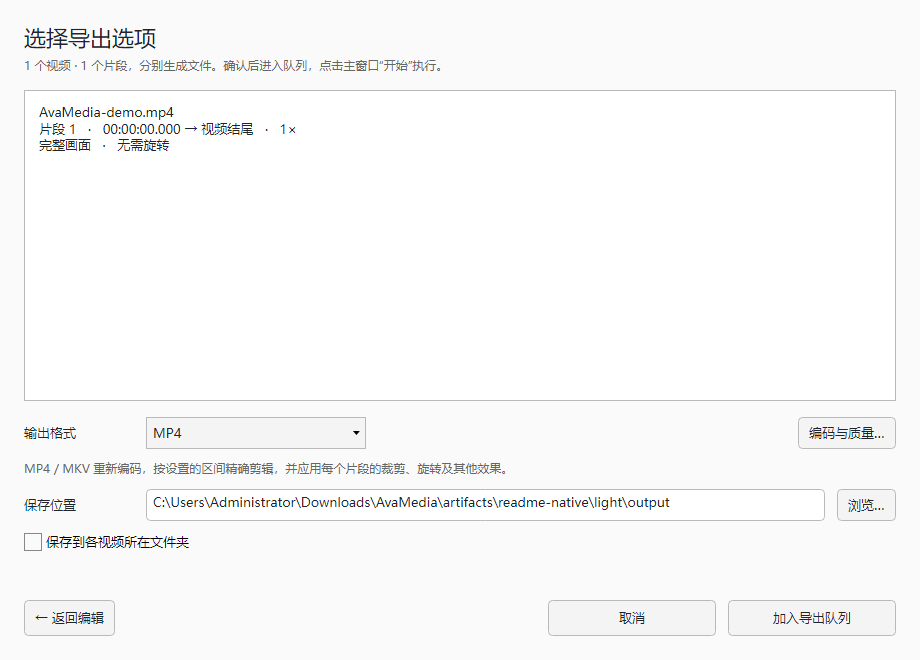
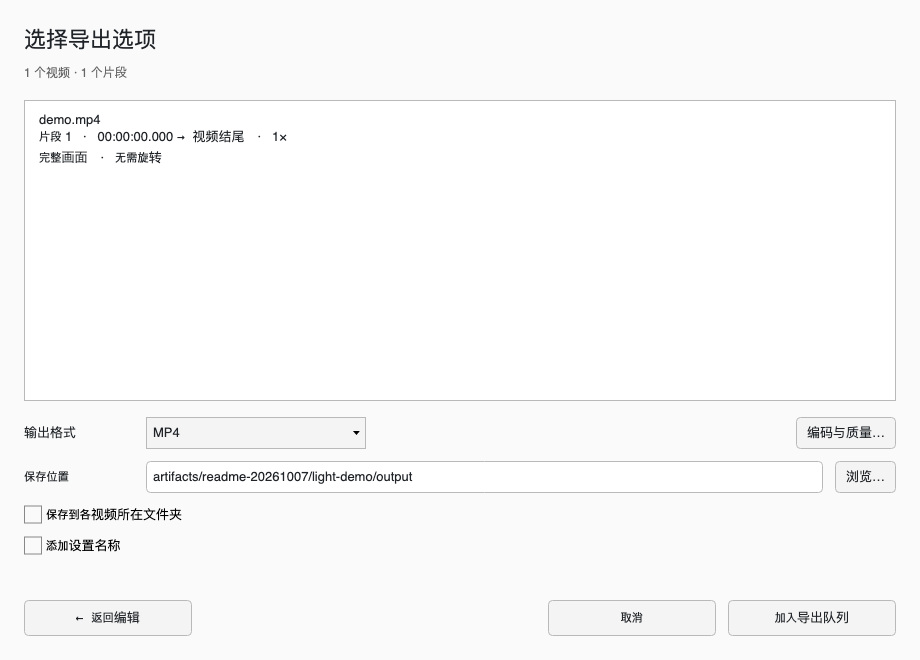
docs: refresh bilingual README and current screenshots

diff --git a/README.md b/README.md
@@ -1,131 +1,114 @@
 # 天池万象转换 · AvaMedia
 
+**简体中文** · [English](README.en.md)
+
 [![CI](https://github.com/mcxen/AvaMedia/actions/workflows/ci.yml/badge.svg)](https://github.com/mcxen/AvaMedia/actions/workflows/ci.yml)
 [![Release](https://github.com/mcxen/AvaMedia/actions/workflows/release.yml/badge.svg)](https://github.com/mcxen/AvaMedia/actions/workflows/release.yml)
 [![License: AGPL-3.0-only](https://img.shields.io/badge/license-AGPL--3.0--only-blue)](LICENSE)
 
-**天池万象转换（AvaMedia）** 使用 **Avalonia 11.3.22、C# 和 .NET 8** 开发，是支持 Windows 与 macOS 的开源桌面多媒体客户端。经典布局和编辑流程参考 FormatFactory X64 5.10.0；代码、控件和图标独立实现，采用 AGPL-3.0-only。
+面向 **Windows 和 macOS** 的开源桌面媒体工具。转换、压缩、剪辑、播放、下载，以及图片和 PDF 处理，集中在一个可批量执行的任务队列中。
+
+使用 **C#、.NET 8 和 Avalonia 11** 开发，提供简体中文 / English 界面与 Light、Dark、Mac OS 9 · Platinum 三套皮肤。当前仍为开发版，功能范围和已验证结果见 [功能说明](docs/FEATURES.md)。
+
+[下载](https://github.com/mcxen/AvaMedia/releases/latest) · [界面截图](#界面截图) · [从源码运行](#从源码运行) · [报告问题](https://github.com/mcxen/AvaMedia/issues)
 
 ## 下载与安装
 
-从 [GitHub Releases](https://github.com/mcxen/AvaMedia/releases/latest) 下载对应平台的成品。客户端包含 .NET 运行时，无需单独安装 SDK。
+从 [GitHub Releases](https://github.com/mcxen/AvaMedia/releases/latest) 下载对应平台的安装包。
 
-| 平台 | 下载 |
+| 平台 | 文件 | 安装方式 |
+| --- | --- | --- |
+| Windows x64 | `AvaMedia-<版本>-win-x64-setup.exe` | 运行安装器，包含快捷方式与卸载入口 |
+| Windows x64 便携版 | `AvaMedia-<版本>-win-x64-portable.zip` | 解压后运行 `AvaMedia.Desktop.exe` |
+| macOS Apple Silicon | `AvaMedia-<版本>-osx-arm64.dmg` | 打开后将 `天池万象转换.app` 拖入 Applications |
+
+macOS 安装包面向 **Apple Silicon（ARM64），声明最低 macOS 13.4**；该最低版本的完整设备验收状态见 [平台说明](docs/PLATFORMS.md)。应用采用 ad-hoc 签名，尚未进行 Developer ID 签名和公证，首次启动可能需要在系统“隐私与安全性”中允许打开。
+
+安装包内置 **.NET 运行时、FFmpeg / FFprobe、yt-dlp 和 QuickJS-NG**，无需另装 SDK、Python 或媒体引擎。各版本 SHA256 与对应媒体工具源码归档链接位于 Release 说明中。
+
+当前开发构建首次正常启动时会在后台下载并校验 LaMa 模型，其他功能可继续使用；缓存有效时不重复下载。LaMa 修复推理和编辑入口尚未接入，见 [模型安装](docs/MODEL-INSTALLATION.md)。
+
+## 主要功能
+
+| 功能 | 支持内容 |
 | --- | --- |
-| Windows x64 | `AvaMedia-版本-win-x64-portable.zip`，解压运行；`AvaMedia-版本-win-x64-setup.exe`，安装、快捷方式与卸载 |
-| macOS Apple Silicon | `AvaMedia-版本-osx-arm64.dmg`，打开后把应用拖入 Applications |
+| 视频转换与压缩 | MP4、MKV、WebM、AVI、MOV、TS 等；画质、码率或目标体积；Apple、NVIDIA、Intel、AMD 硬件转码与软件回退；iPhone HDR 转 SDR |
+| 剪辑与批量处理 | 多文件、多片段、按段数 / 时长 / 时间点分割；裁剪、旋转、镜像、速度、淡入淡出；批量裁剪、方向建议、重命名与多宫格截图 |
+| 音轨与字幕 | 合并、混流、音视频流提取；选轨、多音轨保留、采样率、声道、音量与音频效果；字幕烧录或独立字幕轨 |
+| 图片转换与压缩 | HEIC / HEIF 输入；JPEG、WebP、PNG 压缩；实际编码后的体积与前后对比；只保存变小的压缩结果并保留原图；另有图片格式转换、缩放与旋转 |
+| PDF 工作区 | 页面预览、选页、排序、旋转、拆分与合并；图片 / TXT 排版为 PDF；PDF 做旧、压缩及文本提取 |
+| 视频下载 | 分享文本、批量链接、播放列表 / 分 P / 相册；画质、视频 / 音频、字幕、登录态、代理与失败重试 |
+| 天池播放器 | 独立播放窗口、目录播放列表、全屏、倍速、选轨、逐帧定位、当前帧截图与常用 PotPlayer 式快捷键 |
+| WiFi 传文件 | 同一局域网内，手机扫码通过浏览器上传文件，电脑也可分享文件给手机下载 |
+| 任务队列与工具 | 并行处理、进度、停止、编辑参数、重试、日志、自动保存与导入导出；ZIP 压缩 / 解压、导出帧、DVD / VOB 转换和原始数据复制为 ISO |
 
-后续 macOS 发布仅提供 Apple Silicon（ARM64）版本。
+拖入文件可按视频、音频、图片和文档推荐工具；也可先选择功能，再添加文件、调整参数、加入队列并开始处理。快速剪辑先编辑片段，再统一配置导出，每个片段生成独立文件。
 
-客户端、Windows 快捷方式和 macOS 应用使用中文名“天池万象转换”；macOS 应用文件名为 `天池万象转换.app`。GitHub 仓库、可执行文件和发布压缩包继续使用 AvaMedia。品牌配置统一维护在 [`Branding.props`](Branding.props)。
+### 使用边界
 
-主 Release 只上传以上三种成品，SHA256 校验值在版本说明中。应用源码可通过版本 tag 或 GitHub 自动生成的 Source code 下载；FFmpeg 精确对应源码和独立工具包在版本说明链接的 `media-v版本` 媒体归档页，不占用应用下载列表。macOS 包采用 ad-hoc 签名，尚未经过 Developer ID 签名和公证；初次启动可能需要在系统隐私与安全性中允许打开。
+- **Fast Copy** 的剪辑起点受关键帧限制；裁剪、画面旋转等滤镜需要重新编码。
+- **HEIC / HEIF** 压缩只处理静态主图，输出 JPEG / WebP / PNG，不保留 Live Photo 视频、深度图或 HDR 增益图。
+- **PDF → DOCX / XLSX** 提取文本，不重建原始排版；PDF 做旧和整页压缩会栅格化页面。
+- **去除水印** 当前对选区进行模糊处理，不能恢复被遮挡的内容；重新封装也不保证修复损坏媒体。
+- 下载可用性取决于站点、账号、地区和网络限制，详见 [视频下载](docs/VIDEO-DOWNLOAD.md)。
 
-新安装包与便携版内置 FFmpeg / FFprobe 8.1.3、yt-dlp 和 QuickJS-NG。安装或解压后即可使用视频播放、转换、压缩与下载，无需另装媒体引擎、Python 或开发 SDK。
+## 界面截图
 
-Windows 的两个媒体程序共用 DLL；macOS 的运行库位于应用内部。两平台从固定源码构建所需引擎，保留 x264 / x265、字幕、HDR 转 SDR 和平台硬件接口；不附带 ffplay、头文件或静态开发库。源码归档和校验清单保存在对应媒体归档页，普通用户只需下载安装包。
+以下为本地已编译客户端在 macOS 上截取的实际界面（2026-10-07），使用中文界面；应用也支持 English。编辑器示例画面来自 [NASA 公共领域照片](tests/AvaMedia.BatchRotateTests/Fixtures/README.md)。
 
-默认路径留空即可使用内置工具，也可在“选项 → 工具”选择自定义引擎，或设置 `AVAMEDIA_FFMPEG`、`AVAMEDIA_FFPROBE`、`AVAMEDIA_YT-DLP`。打包方式见 [自动发布](docs/RELEASE.md) 与 [macOS FFmpeg](docs/FFMPEG-MACOS.md)。
+**主窗口 · Light**
 
-## 界面
+![AvaMedia 浅色主窗口：媒体工具分类、任务队列与 WiFi 传文件入口](docs/assets/screenshots/main-light.png)
 
-以下截图来自实际客户端，示例媒体为测试生成的画面。
+| Mac OS 9 · Platinum | 快速剪辑 · Dark |
+| --- | --- |
+| [![AvaMedia Mac OS 9 主窗口](docs/assets/screenshots/main-macos9.png)](docs/assets/screenshots/main-macos9.png) | [![AvaMedia 深色快速剪辑编辑器：时间区间、边界预览与片段编辑](docs/assets/screenshots/editor-dark.png)](docs/assets/screenshots/editor-dark.png) |
+| **导出设置 · Light** | **视频下载 · Light** |
+| [![AvaMedia 导出设置：片段列表、输出格式和保存位置](docs/assets/screenshots/export-light.png)](docs/assets/screenshots/export-light.png) | [![AvaMedia 视频下载：链接解析、画质、字幕和登录选项](docs/assets/screenshots/download-light.png)](docs/assets/screenshots/download-light.png) |
 
-**经典主窗口 · Light**
-
-![AvaMedia 浅色主窗口](docs/assets/screenshots/main-light.png)
-
-**Mac OS 9 · Platinum**
-
-![AvaMedia Mac OS 9 主窗口](docs/assets/screenshots/main-macos9.png)
-
-**媒体编辑器 · Dark**
-
-![AvaMedia 深色媒体编辑器](docs/assets/screenshots/editor-dark.png)
-
-**编辑完成后的导出设置**
-
-![AvaMedia 导出选项](docs/assets/screenshots/export-light.png)
-
-三套皮肤共用组件角色和布局指标。时间统一显示三位小数，底层保留精确帧时间；播放、微调、确认与取消控件保持一致尺寸和对齐。规范见 [UISPEC.MD](UISPEC.MD)，皮肤说明见 [Mac OS 9 设计](docs/MACOS9-SKIN.md)。
-
-## 功能
-
-- **中英文界面**：“语言 / Language”菜单提供简体中文、English 和跟随系统，实时切换并保存偏好；浅色、深色和 Mac OS 9 皮肤共用语言资源。
-- **媒体转换**：音视频、图片及其他容器；尺寸、编码、质量、帧率、采样率、声道和预设可配置。
-- **旧视频格式**：3GP / 3G2、RM / RMVB、AVI / DivX、WMV / ASF、FLV / F4V、旧 QuickTime、VCD / DVD、DV、AMV、NSV 等可导入播放器、剪辑与压缩；转换窗口提供 3GP / 3G2 输出，默认 MPEG-4 + AAC。见 [旧视频支持](docs/LEGACY-VIDEO.md)。
-- **拖入即选工具**：视频、图片、音频与文档自动分类，左侧真实缩略图，右侧工具卡片与流动连线；混合批次注明接收 / 跳过数量，点击直接带入编辑。见 [文件路由](docs/MEDIA-ROUTING.md)。
-- **WiFi 传文件**：顶部开启局域网收发，手机扫码通过网页上传照片、MOV 视频及文件，接收后导入转换或高画质压缩；电脑也可分享文件给手机下载。见 [WiFi 传文件](docs/WIFI-TRANSFER.md)。
-- **视频压缩**：自动画质档、手动质量 / 码率与目标体积；支持苹果 MOV / M4V / MP4、HEVC 和 ProRes 输入，iPhone HLG / Dolby Vision 转 SDR，输出 MP4 / MOV / M4V / MKV。见 [视频压缩](docs/VIDEO-COMPRESSION.md)。
-- **快速剪辑**：选择视频直接编辑，多文件、多片段、按段数 / 时长 / 时间点分割，最后统一配置导出，每个片段分别输出。
-- **预览与编辑**：实际帧定位、区间播放、结束边界帧、选区移动 / 缩放、比例锁定、键盘微调、旋转、镜像、速度和淡入淡出。
-- **批量裁剪与旋转**：共享像素或比例选区，逐文件调整，本地人脸方向识别，对照原画面和处理后预览。
-- **图片压缩**：支持苹果 HEIC / HEIF 输入，导出 JPEG / WebP / PNG；批量勾选、质量方案与尺寸上限，滑动 / 并排对比、1:1 像素查看，显示真实体积，仅保存实际变小的结果并保留原图。macOS 使用 ImageIO 生成方向正确的缩略图，调整压缩参数复用原图预览。见 [图片压缩](docs/IMAGE-COMPRESSION.md) 与 [HEIC 支持](docs/HEIC.md)。
-- **合并、混流与字幕**：逐输入保留编辑参数，支持视频 / 音轨选择、字幕烧录与独立字幕轨配置。
-- **视频下载**：分享文本与批量链接解析、YouTube 播放列表 / B站分P、Bunkr 视频 / 相册、Pixeldrain 视频 / 文件列表、多画质、视频 / 音频、字幕、登录态与代理；内置 yt-dlp、站点解析器和 QuickJS-NG，停止后可重试续传。平台要求与验证见 [视频下载](docs/VIDEO-DOWNLOAD.md)。
-- **任务与工具**：并行队列、停止、重试、日志、拖放、恢复和导入导出；可视化 PDF 页面排序 / 拆分 / 合并 / 排版、PDF 做旧与压缩、归档、导出帧与下载入口。
-- **天池播放器**：独立窗口、PotPlayer 常用键位、后台目录播放列表；Windows 新安装器提供独立开始菜单入口并注册视频 / 音频“打开方式”，便携版可在选项的系统页注册。见 [播放器](docs/PLAYER.md)。
-- **高级设置**：[自动 GPU 转码](docs/GPU-TRANSCODING.md)，适配 Apple M 系列、NVIDIA RTX、Intel 核显 / Arc、AMD，自动匹配编码与解码路径并分级回退；另提供线程、图片质量、减少动效和外部工具配置。
-
-使用流程：选择功能 → 添加媒体 → 配置或编辑 → 加入队列 → 开始。快速剪辑返回编辑保留草稿，取消不加入任务；Fast Copy 受关键帧限制，包含滤镜时需重新编码。水印区域采用模糊处理，PDF → Office 提取文本。详见 [功能与验证](docs/FEATURES.md)。
-
-专项说明：[快速剪辑](docs/QUICK-CLIP.md) · [视频编辑](docs/VIDEO-EDITING.md) · [批量裁剪](docs/BATCH-CROP.md) · [批量旋转](docs/BATCH-ROTATE.md) · [字幕与选轨](docs/SUBTITLE-OPTIONS.md) · [高级设置](docs/SETTINGS.md)。
-
-播放器大文件测量包括真实 5.23 GB 4K 视频、1080p60 与两小时 PCM 音频，并记录启动、CPU、分配、定位及 UI 调度；测试方法与本机前后数据见 [性能记录](docs/PLAYER-PERFORMANCE.md)。
-
-## 接口与架构
-
-`AvaMedia.Core` 不依赖 Avalonia，负责模型、校验、任务计划和媒体处理；`AvaMedia.Desktop` 负责窗口、主题、预览呈现与平台音频。
-
-图片压缩通过 `IImageCompressor` 提供探测和真实编码，窗口预览与队列输出共用 `FfmpegImageCompressor`。
-
-业务窗口依赖 `IMediaEngine`，队列仅依赖 `IJobExecutor`。预览、方向识别和音频输出分别使用 `IMediaPreview`、`IVideoOrientationDetector` 和 `IAudioOutput`。接口已接入生产调用方并支持测试替换；具体依赖和实现边界见 [ARCHITECTURE](docs/ARCHITECTURE.md)。
+点击配图可查看原图。截图来源与更新方式见 [截图说明](docs/assets/screenshots/README.md)。
 
 ## 从源码运行
+
+需要 [.NET 8 SDK](https://dotnet.microsoft.com/download/dotnet/8.0)，版本选择见 [`global.json`](global.json)。
 
 ```sh
 git clone https://github.com/mcxen/AvaMedia.git
 cd AvaMedia
-dotnet restore AvaMedia.sln
-dotnet build AvaMedia.sln -c Release
-dotnet run --project src/AvaMedia.Desktop -c Release
+dotnet build src/AvaMedia.Desktop/AvaMedia.Desktop.csproj -c Release
+dotnet run --project src/AvaMedia.Desktop -c Release --no-build
 ```
 
-需要 .NET 8 SDK 和外部媒体工具。Windows 可双击 `Start-AvaMedia.cmd`，使用工程内 SDK 或已有 SDK。
+源码运行需准备 FFmpeg / FFprobe；下载功能另需 yt-dlp 和 QuickJS-NG。可使用 Release 说明链接的媒体工具包。未内置工具的开发构建可在“选项 → 外部工具”配置路径，或使用 `AVAMEDIA_FFMPEG`、`AVAMEDIA_FFPROBE`、`AVAMEDIA_YT-DLP` 环境变量；工具查找也支持项目 `.tools`、PATH 和 macOS Homebrew 路径。正式安装包优先使用内置引擎。
 
-```powershell
-pwsh -File scripts/Verify.ps1
-pwsh -File scripts/Publish.ps1 -Runtime win-x64 -Version 1.0.5
-pwsh -File scripts/Package-Windows.ps1 -Version 1.0.5
-```
+日常源码修改只构建受影响项目并完成必要静态检查；仅修改文档或资源时不运行构建和测试。功能回归按明确要求执行，范围遵循 [`AGENTS.md`](AGENTS.md)。
 
-验证覆盖真实输出、剪辑、字幕、批量处理、方向识别、交互、三套皮肤、设置、接口替换与消融。测试自行生成媒体，不需要用户视频。录制权限和音频设备按实际系统配置工作；macOS 用户设备媒体能力需结合设备验收。
+### 代码结构
 
-开发者可用 `AvaMedia.Desktop --capture <目录> --editor <视频> --verify-ui` 捕获实际界面并验证解码，`--quick-clip <视频>` 捕获编辑器和导出页，`--dark` / `--macos9` 切换皮肤。图标资产和提示词保存在 `Assets`，同系列维护见 [$avamedia-icons](.agents/skills/avamedia-icons/SKILL.md)。
+| 路径 | 职责 |
+| --- | --- |
+| [`src/AvaMedia.Core`](src/AvaMedia.Core) | 媒体模型、参数校验、任务计划、队列与媒体处理，不依赖 Avalonia |
+| [`src/AvaMedia.Desktop`](src/AvaMedia.Desktop) | 桌面窗口、语言、皮肤、预览、播放与平台集成 |
+| [`scripts`](scripts) / [`.github/workflows`](.github/workflows) | 媒体引擎准备、构建、打包与发布 |
+| [`tests`](tests) | 专项验证程序与测试素材 |
 
-“皮肤 → Mac OS 9 · Platinum” 使用独立生成的 20 款透明功能图标，覆盖全部 54 个功能入口，并在已打开窗口和新子窗口中随皮肤切换。素材、完整提示词和哈希保存在 [`Assets/FeatureIcons/macos9`](src/AvaMedia.Desktop/Assets/FeatureIcons/macos9/README.md)；浅色、深色皮肤继续使用 v2 系列。[$avamedia-icons](.agents/skills/avamedia-icons/SKILL.md) 支持维护这两套风格。
+接口边界见 [架构说明](docs/ARCHITECTURE.md)，品牌配置见 [`Branding.props`](Branding.props)，界面规范见 [`UISPEC.MD`](UISPEC.MD)。
 
-## 自动发布
+## 文档与贡献
 
-推送 `vMAJOR.MINOR.PATCH` tag 后，[Release 工作流](.github/workflows/release.yml) 自动验证、构建安装包、生成源码与校验清单并上传 GitHub Release。Windows 验证安装、原生启动和卸载；Mac ARM64 包在 Apple Silicon runner 构建并验证启动。
+| 主题 | 文档 |
+| --- | --- |
+| 转换与压缩 | [视频压缩](docs/VIDEO-COMPRESSION.md) · [图片压缩](docs/IMAGE-COMPRESSION.md) · [HEIC](docs/HEIC.md) · [TS 视频](docs/TS-VIDEO.md) · [GPU 转码](docs/GPU-TRANSCODING.md) |
+| 编辑与播放 | [快速剪辑](docs/QUICK-CLIP.md) · [视频编辑](docs/VIDEO-EDITING.md) · [批量裁剪](docs/BATCH-CROP.md) · [批量旋转](docs/BATCH-ROTATE.md) · [字幕与选轨](docs/SUBTITLE-OPTIONS.md) · [播放器](docs/PLAYER.md) |
+| 文件与工具 | [文件路由](docs/MEDIA-ROUTING.md) · [WiFi 传文件](docs/WIFI-TRANSFER.md) · [PDF 工作区](docs/PDF-WORKSPACE.md) · [视频下载](docs/VIDEO-DOWNLOAD.md) · [批量工具](docs/BATCH-TOOLS.md) |
+| 开发与发布 | [架构](docs/ARCHITECTURE.md) · [设置](docs/SETTINGS.md) · [皮肤](docs/MACOS9-SKIN.md) · [平台](docs/PLATFORMS.md) · [Git 工作流](docs/GIT-WORKFLOW.md) · [自动发布](docs/RELEASE.md) |
 
-```sh
-git tag -a v1.0.5 -m "AvaMedia 1.0.5"
-git push origin v1.0.5
-```
+欢迎通过 [Issues](https://github.com/mcxen/AvaMedia/issues) 报告问题或提出建议。媒体相关问题请附系统版本、应用版本、输入格式、操作步骤和错误日志。
 
-流程见 [RELEASE](docs/RELEASE.md)，Git 管理见 [GIT-WORKFLOW](docs/GIT-WORKFLOW.md)，18 组媒体消融见 [ABLATION](docs/ABLATION.md)。
+发布由 `vMAJOR.MINOR.PATCH` tag 触发。日常提交照常推送；相对上次已发布 tag 的有效代码变更累计达到 **1200 行**且相关本地检查通过后，才创建新版本 tag。文档、许可证、资源和生成文件不计入，已发布 tag 保持不变。具体流程见 [Git 工作流](docs/GIT-WORKFLOW.md)。
 
 ## 许可证
 
-版权所有 © 2026 AvaMedia contributors。原创代码、测试、文档和原创图标采用 **AGPL-3.0-only**；见 [LICENSE](LICENSE) 与 [COPYRIGHT](COPYRIGHT)。依赖、方向模型和安装器声明见 [THIRD-PARTY-NOTICES](THIRD-PARTY-NOTICES.md)、`licenses/` 及资产说明。
+版权所有 © 2026 AvaMedia contributors。原创代码、测试、文档和原创图标采用 **AGPL-3.0-only**，见 [LICENSE](LICENSE) 与 [COPYRIGHT](COPYRIGHT)。第三方依赖、模型及安装器声明见 [THIRD-PARTY-NOTICES](THIRD-PARTY-NOTICES.md) 和 [`licenses`](licenses)。
 
-未导入 FormatFactory 的专有 DLL、图标或品牌素材。内置 FFmpeg 通过独立进程调用，包含 x264 / x265，采用 GPL-3.0-or-later；对应源码和构建配方随 Release 提供，各组件许可证随安装包保留。AvaMedia 原创代码仍采用 AGPL-3.0-only。技术与协议调研见 [RESEARCH](docs/RESEARCH.md)。
-
-## 视频播放器
-
-独立播放器采用 PotPlayer 布局和常用快捷键，支持连续播放、全屏、倍速、音量、选轨与逐帧定位。视频与声音流式解码，暂停复用会话；Windows 发布使用 ReadyToRun。操作与冷启动测量见 [播放器说明](docs/PLAYER.md)。
-
-![播放器 Dark](docs/assets/player-dark.png)
-
-![播放器 Mac OS 9](docs/assets/player-macos9.png)
+经典转换布局与编辑流程参考 FormatFactory，播放器操作参考 PotPlayer；代码、控件和图标独立实现，未导入其专有 DLL、图标或品牌素材。内置 FFmpeg 通过独立进程调用，包含 x264 / x265，采用 GPL-3.0-or-later；精确对应的源码和构建配方通过 Release 说明链接的媒体归档提供。

diff --git a/README.en.md b/README.en.md
@@ -1,0 +1,116 @@
+# AvaMedia
+
+[简体中文](README.md) · **English**
+
+[![CI](https://github.com/mcxen/AvaMedia/actions/workflows/ci.yml/badge.svg)](https://github.com/mcxen/AvaMedia/actions/workflows/ci.yml)
+[![Release](https://github.com/mcxen/AvaMedia/actions/workflows/release.yml/badge.svg)](https://github.com/mcxen/AvaMedia/actions/workflows/release.yml)
+[![License: AGPL-3.0-only](https://img.shields.io/badge/license-AGPL--3.0--only-blue)](LICENSE)
+
+An open-source desktop media toolkit for **Windows and macOS**. Convert, compress, edit, play and download media, work with images and PDFs, and manage batch operations in one task queue.
+
+Built with **C#, .NET 8 and Avalonia 11**, with Simplified Chinese / English interfaces and Light, Dark and Mac OS 9 · Platinum skins. AvaMedia is under active development; see the [feature notes](docs/FEATURES.md) for implementation and verification status.
+
+[Download](https://github.com/mcxen/AvaMedia/releases/latest) · [Screenshots](#screenshots) · [Run from source](#run-from-source) · [Report an issue](https://github.com/mcxen/AvaMedia/issues)
+
+## Download and installation
+
+Download the package for your platform from [GitHub Releases](https://github.com/mcxen/AvaMedia/releases/latest).
+
+| Platform | File | Installation |
+| --- | --- | --- |
+| Windows x64 | `AvaMedia-<version>-win-x64-setup.exe` | Run the installer; includes shortcuts and an uninstaller |
+| Windows x64 portable | `AvaMedia-<version>-win-x64-portable.zip` | Extract and run `AvaMedia.Desktop.exe` |
+| macOS Apple Silicon | `AvaMedia-<version>-osx-arm64.dmg` | Open the DMG and drag `天池万象转换.app` into Applications |
+
+The macOS package targets **Apple Silicon (ARM64) and declares macOS 13.4 as its minimum version**. See the [platform notes](docs/PLATFORMS.md) for device verification status at that minimum version. The app uses ad-hoc signing and has not been Developer ID signed or notarized; you may need to allow it in System Settings → Privacy & Security on first launch.
+
+Packages include the **.NET runtime, FFmpeg / FFprobe, yt-dlp and QuickJS-NG**. No separate SDK, Python or media engine installation is required. Release notes include SHA256 checksums and links to the corresponding media-tool source archives. The installed app's Chinese name is “天池万象转换”; repository and package names remain AvaMedia.
+
+Current development builds download and verify the LaMa model in the background on the first normal launch. Other tools remain available, and a valid cached model is not downloaded again. LaMa restoration inference and its editor entry point are not yet integrated; see the [model installation notes](docs/MODEL-INSTALLATION.md).
+
+## Features
+
+| Feature | Capabilities |
+| --- | --- |
+| Video conversion and compression | MP4, MKV, WebM, AVI, MOV, TS and more; quality, bitrate or target size; Apple, NVIDIA, Intel and AMD hardware transcoding with software fallback; iPhone HDR to SDR |
+| Editing and batch tools | Multiple files and clips; split by count, duration or timestamps; crop, rotate, mirror, speed and fades; batch cropping, orientation suggestions, renaming and contact sheets |
+| Audio tracks and subtitles | Join, mux and extract streams; track selection, multiple audio tracks, sample rate, channels, volume and audio effects; burned-in or separate subtitle tracks |
+| Image conversion and compression | HEIC / HEIF input; JPEG, WebP and PNG compression; actual encoded sizes and before/after comparison; save compressed results only when smaller and preserve originals; image conversion, resizing and rotation |
+| PDF workspace | Page previews, selection, ordering, rotation, splitting and merging; images / TXT to PDF; aging effects, compression and text extraction |
+| Video downloads | Shared text, batch URLs, playlists, multipart videos and albums; quality, video / audio, subtitles, login state, proxies and retrying failed items |
+| Tianchi Player | Separate player window, folder playlists, fullscreen, speed, track selection, frame stepping, current-frame snapshots and familiar PotPlayer-style shortcuts |
+| WiFi file transfer | Scan a QR code to upload files from a phone's browser on the same local network, or share files from the computer for a phone to download |
+| Task queue and utilities | Parallel jobs, progress, stop, parameter editing, retry, logs, automatic saving and import/export; ZIP creation / extraction, frame export, DVD / VOB conversion and raw-data copying to ISO |
+
+Drop files into the main window to see tools suited to videos, audio, images and documents. Alternatively, choose a tool, add files, adjust settings, queue the jobs and start processing. Quick Clip lets you edit first, then choose export settings for all clips; each clip becomes a separate file.
+
+### Practical limits
+
+- **Fast Copy** clip starts depend on keyframes. Filters such as cropping and image rotation require re-encoding.
+- **HEIC / HEIF** compression processes the primary still image and outputs JPEG / WebP / PNG. It does not preserve Live Photo video, depth maps or HDR gain maps.
+- **PDF → DOCX / XLSX** extracts text rather than reconstructing the original layout. PDF aging and whole-page compression rasterize pages.
+- **Watermark removal** currently blurs the selected area; it cannot recover obscured content. Remuxing does not guarantee recovery of damaged media.
+- Downloads depend on website, account, regional and network restrictions; see the [download notes](docs/VIDEO-DOWNLOAD.md).
+
+## Screenshots
+
+Actual interfaces captured from a locally compiled client on macOS on **2026-10-07**. Screenshots use the Chinese interface; English is also available in the app. The editor sample uses a [NASA public-domain photograph](tests/AvaMedia.BatchRotateTests/Fixtures/README.md).
+
+**Main window · Light**
+
+![AvaMedia Light main window with media tools, task queue and WiFi transfer](docs/assets/screenshots/main-light.png)
+
+| Mac OS 9 · Platinum | Quick Clip · Dark |
+| --- | --- |
+| [![AvaMedia Mac OS 9 main window](docs/assets/screenshots/main-macos9.png)](docs/assets/screenshots/main-macos9.png) | [![AvaMedia Dark Quick Clip editor with a timeline, boundary previews and clip editing](docs/assets/screenshots/editor-dark.png)](docs/assets/screenshots/editor-dark.png) |
+| **Export settings · Light** | **Video downloads · Light** |
+| [![AvaMedia export settings with clips, output format and destination](docs/assets/screenshots/export-light.png)](docs/assets/screenshots/export-light.png) | [![AvaMedia video downloader with URL parsing, quality, subtitles and login options](docs/assets/screenshots/download-light.png)](docs/assets/screenshots/download-light.png) |
+
+Click a gallery image to open it at full size. See the [screenshot notes](docs/assets/screenshots/README.md) for sources and update instructions.
+
+## Run from source
+
+Install the [.NET 8 SDK](https://dotnet.microsoft.com/download/dotnet/8.0); SDK selection is defined in [`global.json`](global.json).
+
+```sh
+git clone https://github.com/mcxen/AvaMedia.git
+cd AvaMedia
+dotnet build src/AvaMedia.Desktop/AvaMedia.Desktop.csproj -c Release
+dotnet run --project src/AvaMedia.Desktop -c Release --no-build
+```
+
+Source builds need FFmpeg / FFprobe; downloads also need yt-dlp and QuickJS-NG. Media-tool packages are linked in the Release notes. Development builds without bundled tools accept paths in Options → External tools, or the `AVAMEDIA_FFMPEG`, `AVAMEDIA_FFPROBE` and `AVAMEDIA_YT-DLP` environment variables. Tool discovery also searches the project's `.tools` directory, PATH and macOS Homebrew locations. Distributed app packages prefer their bundled engines.
+
+For routine source changes, build affected projects and run necessary static checks. Documentation-only and asset-only changes do not require builds or tests. Run functional regression checks only when explicitly requested, following [`AGENTS.md`](AGENTS.md).
+
+### Repository layout
+
+| Path | Responsibility |
+| --- | --- |
+| [`src/AvaMedia.Core`](src/AvaMedia.Core) | Media models, validation, job planning, queue and processing; independent of Avalonia |
+| [`src/AvaMedia.Desktop`](src/AvaMedia.Desktop) | Desktop windows, localization, skins, previews, playback and platform integration |
+| [`scripts`](scripts) / [`.github/workflows`](.github/workflows) | Media-engine preparation, builds, packaging and releases |
+| [`tests`](tests) | Focused verification programs and fixtures |
+
+See the [architecture notes](docs/ARCHITECTURE.md) for interface boundaries, [`Branding.props`](Branding.props) for product naming, and [`UISPEC.MD`](UISPEC.MD) for UI conventions.
+
+## Documentation and contributions
+
+The detailed project documents below are currently in Chinese.
+
+| Topic | Documents |
+| --- | --- |
+| Conversion and compression | [Video compression](docs/VIDEO-COMPRESSION.md) · [Image compression](docs/IMAGE-COMPRESSION.md) · [HEIC](docs/HEIC.md) · [TS video](docs/TS-VIDEO.md) · [GPU transcoding](docs/GPU-TRANSCODING.md) |
+| Editing and playback | [Quick Clip](docs/QUICK-CLIP.md) · [Video editing](docs/VIDEO-EDITING.md) · [Batch crop](docs/BATCH-CROP.md) · [Batch rotate](docs/BATCH-ROTATE.md) · [Subtitles and tracks](docs/SUBTITLE-OPTIONS.md) · [Player](docs/PLAYER.md) |
+| Files and utilities | [File routing](docs/MEDIA-ROUTING.md) · [WiFi transfer](docs/WIFI-TRANSFER.md) · [PDF workspace](docs/PDF-WORKSPACE.md) · [Downloads](docs/VIDEO-DOWNLOAD.md) · [Batch tools](docs/BATCH-TOOLS.md) |
+| Development and releases | [Architecture](docs/ARCHITECTURE.md) · [Settings](docs/SETTINGS.md) · [Skins](docs/MACOS9-SKIN.md) · [Platforms](docs/PLATFORMS.md) · [Git workflow](docs/GIT-WORKFLOW.md) · [Releases](docs/RELEASE.md) |
+
+Report bugs and suggest improvements through [Issues](https://github.com/mcxen/AvaMedia/issues). For media-related problems, include your OS and app versions, input format, reproduction steps and error logs.
+
+A `vMAJOR.MINOR.PATCH` tag triggers the Release workflow. Push routine commits normally; create a new version tag only after at least **1,200 changed lines of eligible code** have accumulated relative to the last published tag and relevant local checks pass. Documentation, licenses, assets and generated files do not count. Published tags stay unchanged. See the [Git workflow](docs/GIT-WORKFLOW.md).
+
+## License
+
+Copyright © 2026 AvaMedia contributors. Original code, tests, documentation and icons are licensed under **AGPL-3.0-only**; see [LICENSE](LICENSE) and [COPYRIGHT](COPYRIGHT). Third-party dependency, model and installer notices are in [THIRD-PARTY-NOTICES](THIRD-PARTY-NOTICES.md) and [`licenses`](licenses).
+
+The classic conversion layout and editing workflow take inspiration from FormatFactory, and player controls from PotPlayer. Code, controls and icons are independently implemented; no proprietary DLLs, icons or branding assets from those products are included. Bundled FFmpeg runs as a separate process, includes x264 / x265 and is licensed under GPL-3.0-or-later. Exact corresponding sources and build recipes are available through the media archive linked in each Release's notes.

diff --git a/docs/assets/screenshots/README.md b/docs/assets/screenshots/README.md
@@ -1,0 +1,43 @@
+# README 截图 / README screenshots
+
+更新日期 / Captured: **2026-10-07**。
+
+截图来自 macOS 上已有的本地 Release 开发构建，使用客户端 `--capture` 入口渲染实际窗口内容。中文与英文 README 共用原图，图中的界面语言为简体中文；配图不表示全部功能已通过回归验收。
+
+Captured from an existing local Release development build on macOS using the client's `--capture` window-rendering entry point. Both READMEs share the original PNGs, with the app set to Simplified Chinese. These documentation images do not establish functional regression coverage.
+
+| 文件 / File | 内容 / Content | 捕获输出 / Capture output |
+| --- | --- | --- |
+| `main-light.png` | 浅色主窗口 / Light main window | `light/main.png` |
+| `main-macos9.png` | Platinum 主窗口 / Platinum main window | `macos9/main.png` |
+| `editor-dark.png` | 深色快速剪辑 / Dark Quick Clip | `dark/quick-clip.png` |
+| `export-light.png` | 浅色导出设置 / Light export settings | `light/quick-clip-export.png` |
+| `download-light.png` | 浅色视频下载 / Light video downloader | `light/download.png` |
+
+编辑器示例使用仓库已有的 `astronaut.png`，原始照片由 NASA 提供，属于公共领域。来源和许可说明见 [素材说明](../../../tests/AvaMedia.BatchRotateTests/Fixtures/README.md)。演示视频只用于文档配图，不加入队列执行媒体导出。
+
+The editor sample uses the existing `astronaut.png` fixture, a NASA public-domain photograph. See the [fixture notes](../../../tests/AvaMedia.BatchRotateTests/Fixtures/README.md) for attribution. The demo video is used only to populate documentation screenshots; no export job is queued.
+
+## 更新方式 / Updating
+
+在仓库根目录执行，使用已编译的客户端与可用的 FFmpeg / FFprobe。下列命令只生成截图素材与实际窗口截图，不运行构建、功能回归、截图断言或性能测量。媒体工具不在 PATH 时，可设置 `AVAMEDIA_FFMPEG` / `AVAMEDIA_FFPROBE`。
+
+Run from the repository root with an already compiled client and available FFmpeg / FFprobe. These commands create the demo asset and window captures; they do not build the project or run regression tests, screenshot assertions or benchmarks. Set `AVAMEDIA_FFMPEG` / `AVAMEDIA_FFPROBE` if needed.
+
+```sh
+mkdir -p artifacts/readme
+ffmpeg -hide_banner -loglevel error -loop 1 \
+  -i tests/AvaMedia.BatchRotateTests/Fixtures/astronaut.png \
+  -t 4 -r 25 -c:v libx264 -pix_fmt yuv420p -y artifacts/readme/demo.mp4
+
+dotnet src/AvaMedia.Desktop/bin/Release/net8.0/AvaMedia.Desktop.dll \
+  --capture artifacts/readme/light --quick-clip artifacts/readme/demo.mp4 --download
+dotnet src/AvaMedia.Desktop/bin/Release/net8.0/AvaMedia.Desktop.dll \
+  --capture artifacts/readme/dark --dark --quick-clip artifacts/readme/demo.mp4
+dotnet src/AvaMedia.Desktop/bin/Release/net8.0/AvaMedia.Desktop.dll \
+  --capture artifacts/readme/macos9 --macos9
+```
+
+按上表将需要的 PNG 复制到本目录，保持文件名不变，并同步更新两份 README 中的截图日期与说明。演示视频和捕获状态留在 Git 忽略的 `artifacts/` 中。
+
+Copy the PNGs listed above into this directory, keeping their names, and update the capture date and captions in both READMEs. Keep the demo video and capture state in the Git-ignored `artifacts/` directory.
